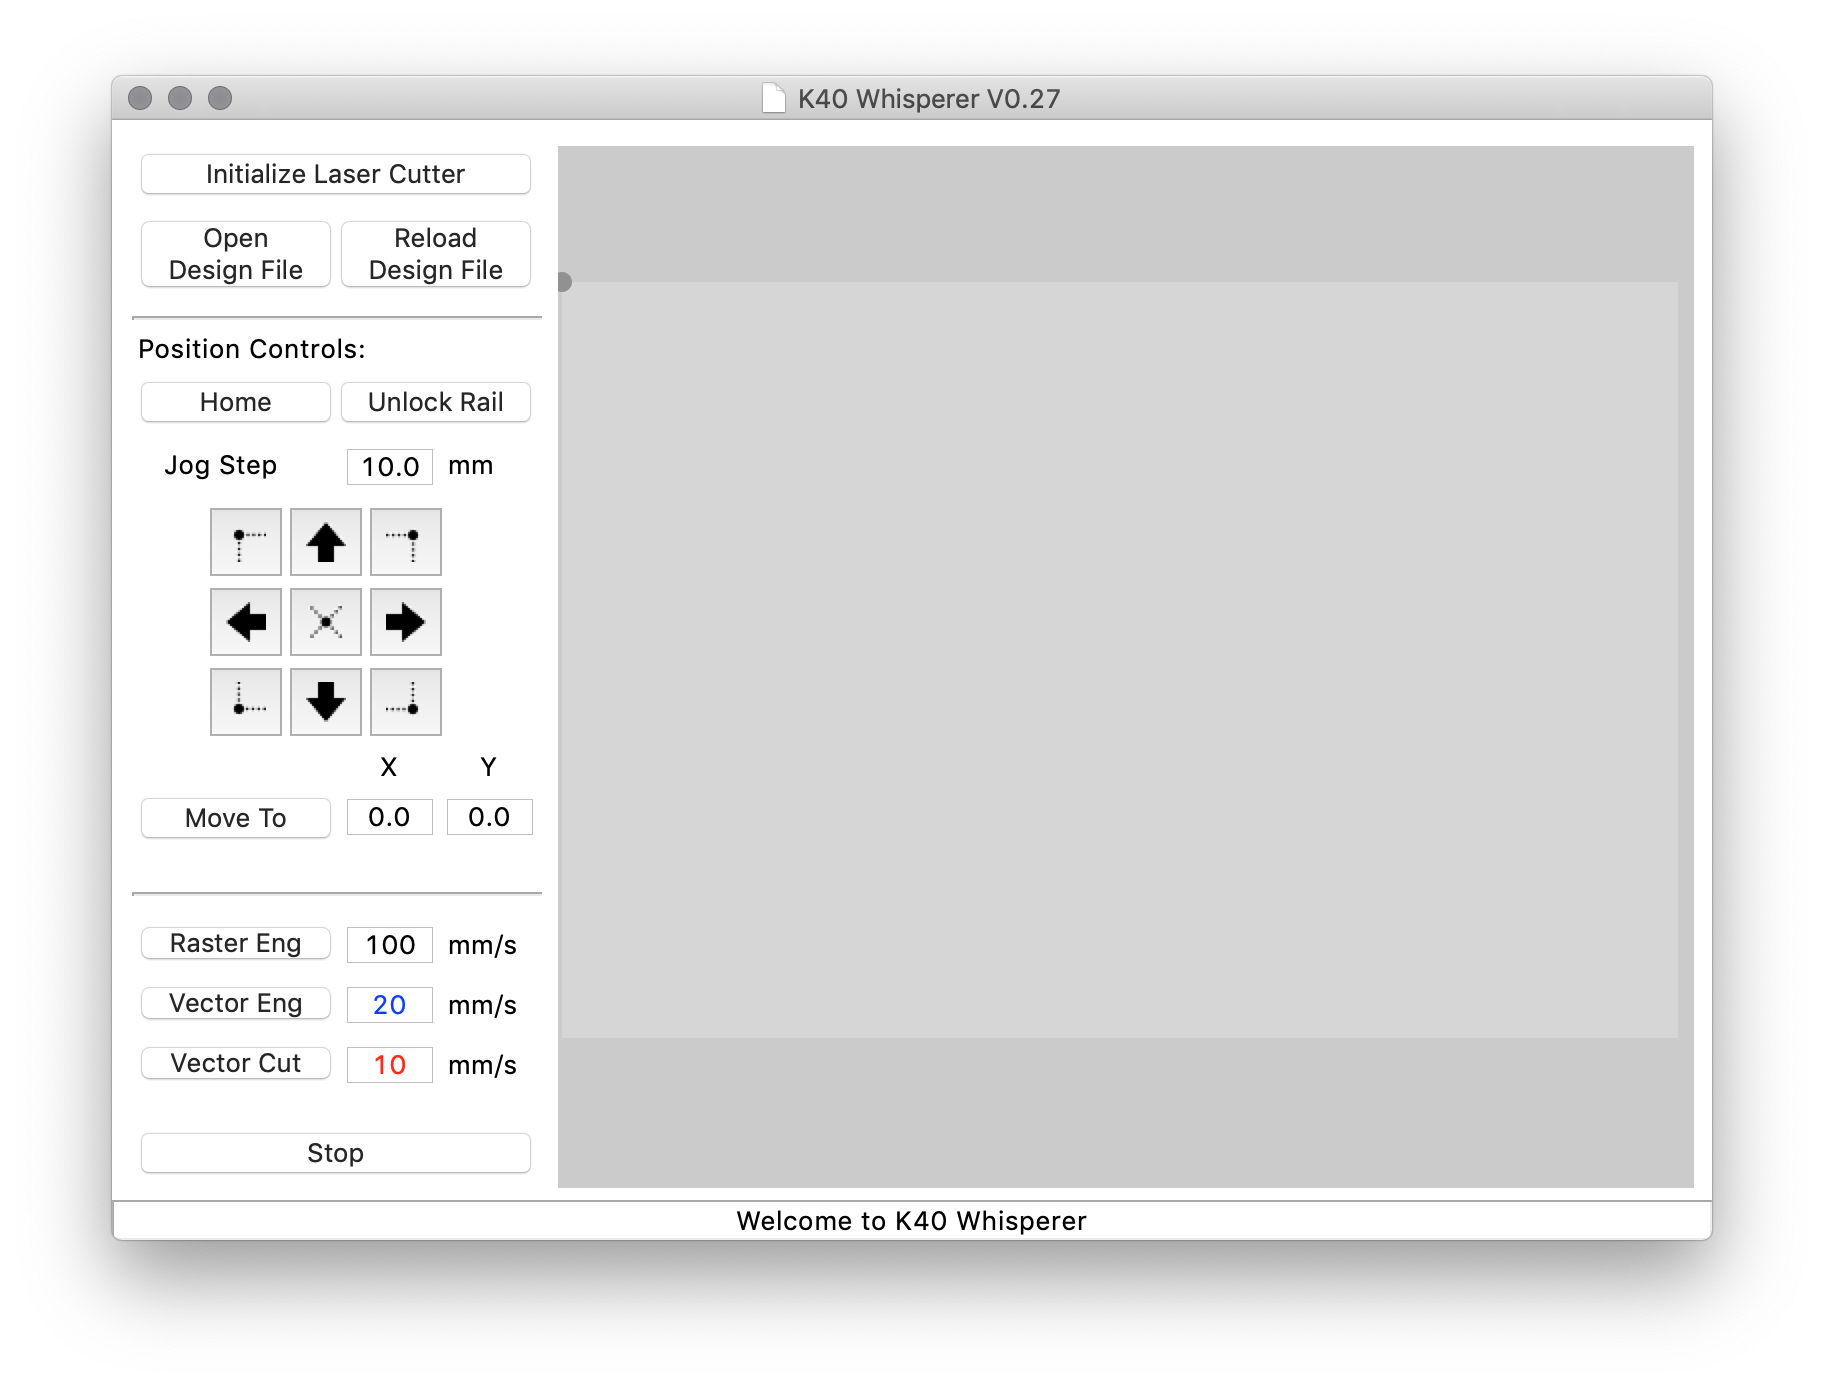
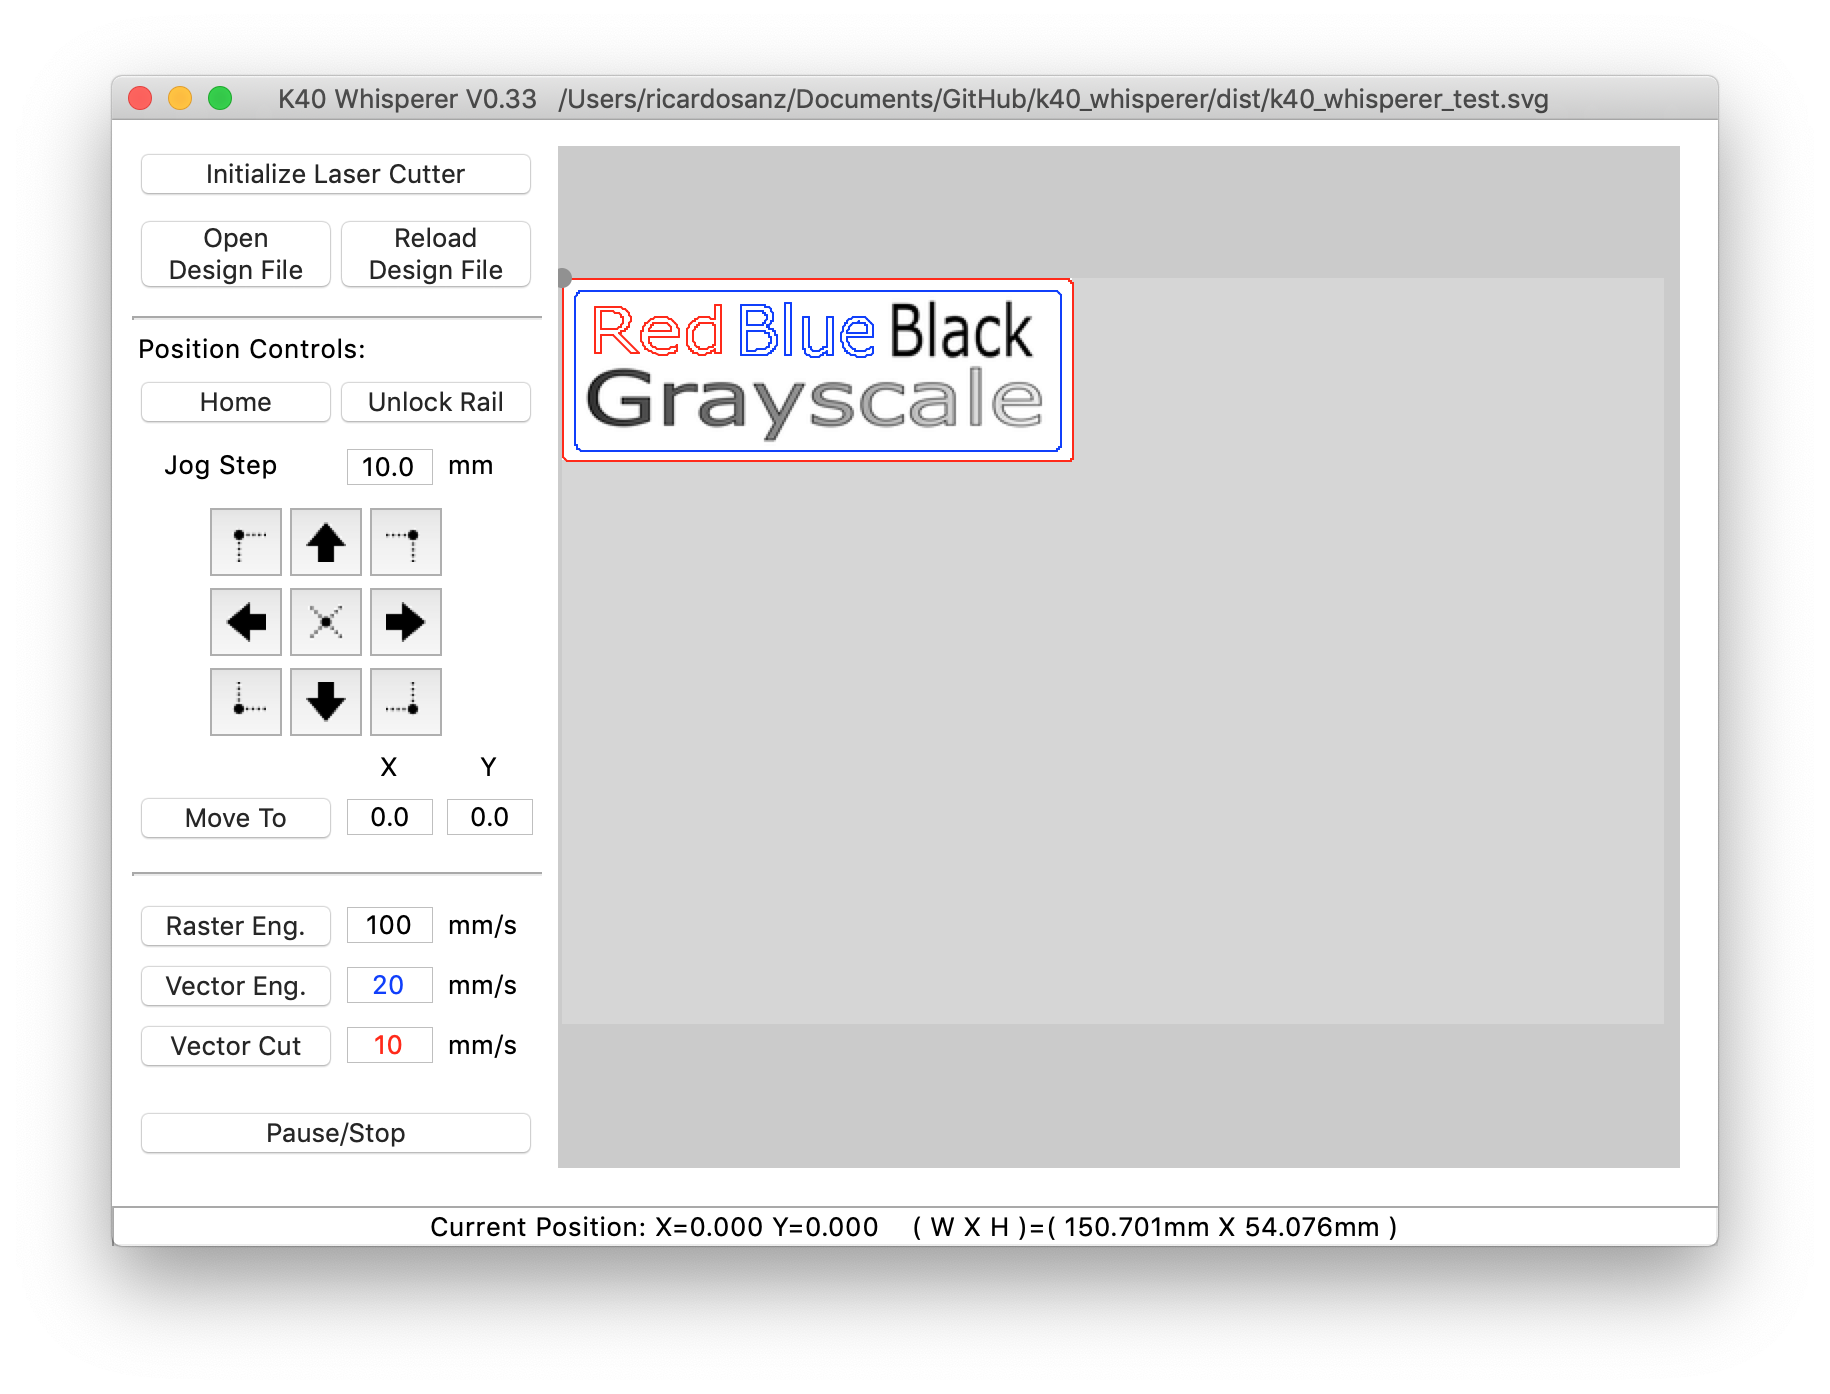
Updated readme

diff --git a/README.md b/README.md
@@ -1,10 +1,10 @@
-# K40 Whisperer
+# K40 Whisperer for macOS
 
-Packaging of Scorchworks K40 Whisperer as an OSX Application.
+Packaging of Scorchworks K40 Whisperer as an OSX Application. In this repo you can find the necessary files to build K40 Whisperer v0.33 for macOS. The files regarding Linux and Windows systems have been removed.
 
 > K40 Whisperer is an alternative to the the Laser Draw (LaserDRW) program that comes with the cheap Chinese laser cutters available on E-Bay and Amazon. K40 Whisperer reads SVG and DXF files,interprets the data and sends commands to the K40 controller to move the laser head and control the laser accordingly. K40 Whisperer does not require a USB key (dongle) to function.
 
-![K40 Whisperer Main](K40 Whisperer Main.png)
+![K40 Whisperer running on macOS](https://github.com/rsre/K40-Whisperer-macOS/blob/master/K40-Whisperer-running-on-macOS.png "K40 Whisperer")
 
 The official K40 Whisperer and instructions are at Scorchworks:
 
